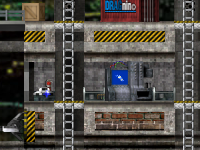
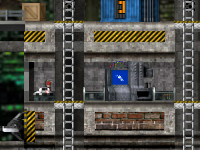
* Bridge Onslaught: Deko wie Container auf "Eurocorps" geschaltet um die Story zu decken. * Neue Bildschirmanimation eingeführt.

diff --git a/ModernCombatFINALTRY.c4f/CMC_BridgeOnslaught.c4s/Script.c b/ModernCombatFINALTRY.c4f/CMC_BridgeOnslaught.c4s/Script.c
@@ -109,22 +109,40 @@ func CreateInterior()
   CreateObject(XTNK, 2500, 440, -1)->AutoRespawn();
 
   //Container
-  CreateObject(CON1, 25, 440, -1)->SetPerspective(2);
-  CreateObject(CON1, 75, 440, -1);
-  CreateObject(CON1, 120, 640, -1)->SetPerspective();
-  CreateObject(CON1, 250, 640, -1)->SetPerspective(3);
-  CreateObject(CON1, 265, 614, -1)->SetPerspective(2);
-
-  CreateObject(CON1, 530, 440, -1)->SetPerspective(2);
-  CreateObject(CON1, 530, 640, -1);
-  CreateObject(CON1, 1365, 440, -1)->SetPerspective(3);
-  CreateObject(CON1, 2200, 440, -1)->SetPerspective(2);
-  CreateObject(CON1, 2200, 640, -1);
-
-  CreateObject(CON1, 2475, 642, -1)->SetPerspective();
-  CreateObject(CON1, 2500, 614, -1)->SetPerspective(2);
-  CreateObject(CON1, 2530, 642, -1);
-  CreateObject(CON1, 2680, 440, -1)->SetPerspective(3);
+  var container = CreateObject(CON1, 25, 442, -1);
+  container->SetPerspective(2);
+  container->SetGraphics("5");
+  CreateObject(CON1, 75, 440, -1)->SetGraphics("5");
+  container = CreateObject(CON1, 120, 640, -1);
+  container->SetPerspective();
+  container->SetGraphics("5");
+  container = CreateObject(CON1, 250, 640, -1);
+  container->SetPerspective(3);
+  container->SetGraphics("5");
+  container = CreateObject(CON1, 265, 614, -1);
+  container->SetPerspective(2);
+  container->SetGraphics("5");
+  container = CreateObject(CON1, 530, 440, -1);
+  container->SetPerspective(2);
+  container->SetGraphics("5");
+  CreateObject(CON1, 530, 640, -1)->SetGraphics("5");
+  container = CreateObject(CON1, 1365, 440, -1);
+  container->SetPerspective(3);
+  container->SetGraphics("5");
+  container = CreateObject(CON1, 2200, 440, -1);
+  container->SetPerspective(2);
+  container->SetGraphics("5");
+  CreateObject(CON1, 2200, 640, -1)->SetGraphics("5");
+  container = CreateObject(CON1, 2475, 642, -1);
+  container->SetPerspective();
+  container->SetGraphics("5");
+  container = CreateObject(CON1, 2500, 614, -1);
+  container->SetPerspective(2);
+  container->SetGraphics("5");
+  CreateObject(CON1, 2530, 642, -1)->SetGraphics("5");
+  container = CreateObject(CON1, 2680, 440, -1);
+  container->SetPerspective(3);
+  container->SetGraphics("5");
 
   //Autos
   var car = CreateObject(CCAR, 50, 641, -1);
@@ -413,7 +431,7 @@ func CreateDecoration()
   //Bildschirme
   CreateObject(SCR3, 360, 520, -1);
   CreateObject(SCA2, 680, 765, -1)->SetAction("Wompf");
-  CreateObject(SCA2, 2045, 765, -1)->SetAction("Clonk");
+  CreateObject(SCA2, 2045, 765, -1)->SetAction("News");
   CreateObject(SCR3, 2370, 520, -1);
 
   //Monitore

diff --git a/ModernCombatFINALTRY.c4f/CMC_OperationMetro.c4s/Script.c b/ModernCombatFINALTRY.c4f/CMC_OperationMetro.c4s/Script.c
@@ -483,7 +483,7 @@ func CreateDecoration()
   screen = CreateObject(SCR3, 1560, 310, -1);
   screen->SetClrModulation(RGB(255,255,255));
   screen->SetPhase(5);
-  CreateObject(SCA2, 1590, 500, -1);
+  CreateObject(SCA2, 1590, 500, -1)->SetAction("News");
   CreateObject(SCA2, 1650, 500, -1)->SetAction("Clonk");
   screen = CreateObject(SCR3, 2075, 380, -1);
   screen->SetClrModulation(RGB(255,255,255));
@@ -500,7 +500,7 @@ func CreateDecoration()
   screen->SetClrModulation(RGB(255,255,255));
   screen->SetPhase(5);
   CreateObject(SCA2, 3590, 500, -1)->SetAction("Wompf");
-  CreateObject(SCA2, 3650, 500, -1);
+  CreateObject(SCA2, 3650, 500, -1)->SetAction("News");
   CreateObject(SCR3, 3680, 310, -1)->SetClrModulation(RGB(250,10,10));
   CreateObject(SCA2, 3740, 320, -1)->SetAction("Clonk");
   screen = CreateObject(SCR3, 3800, 310, -1);

diff --git a/ModernCombatFINALTRY.c4f/CMC_MacrossFrontier.c4s/Script.c b/ModernCombatFINALTRY.c4f/CMC_MacrossFrontier.c4s/Script.c
@@ -352,11 +352,8 @@ func CreateDecoration()
   screen->SetClrModulation(RGB(255,255,255));
   screen = CreateObject(SCR3, 270, 400, -1);
   screen->SetClrModulation(RGB(255,255,255));
-
-  screen = CreateObject(SCA2, 713, 325, -1);
-  screen->SetAction("Scan2");
+  CreateObject(SCA2, 713, 325, -1)->SetAction("Scan2");
   CreateObject(SCA2, 838, 325, -1);
-
   screen = CreateObject(SCR3, 1280, 320, -1);
   screen->SetClrModulation(RGB(255,255,255));
   screen = CreateObject(SCR3, 1450, 320, -1);

diff --git a/ModernCombatFINALTRY.c4f/CMC_BabelTower.c4s/Script.c b/ModernCombatFINALTRY.c4f/CMC_BabelTower.c4s/Script.c
@@ -527,7 +527,7 @@ func CreateDecoration()
   CreateObject(ENGT, 585, 1370, -1);
 
   //Bildschirme
-  CreateObject(SCA2, 585, 810, -1)->SetClrModulation(RGB(50,255,0));
+  CreateObject(SCA2, 585, 810, -1)->SetAction("News");
   CreateObject(SCR3, 530, 840, -1);
   CreateObject(SCR3, 640, 840, -1)->SetPhase(10);
   CreateObject(SCA1, 585, 1490, -1)->SetAction("Grenade");
